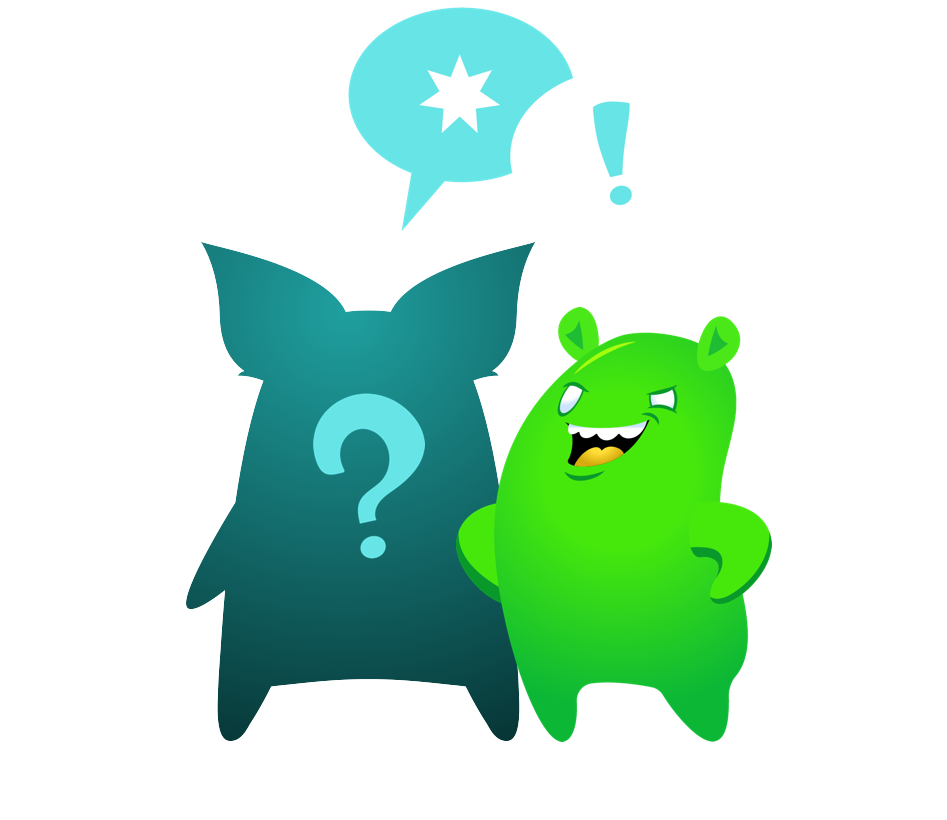
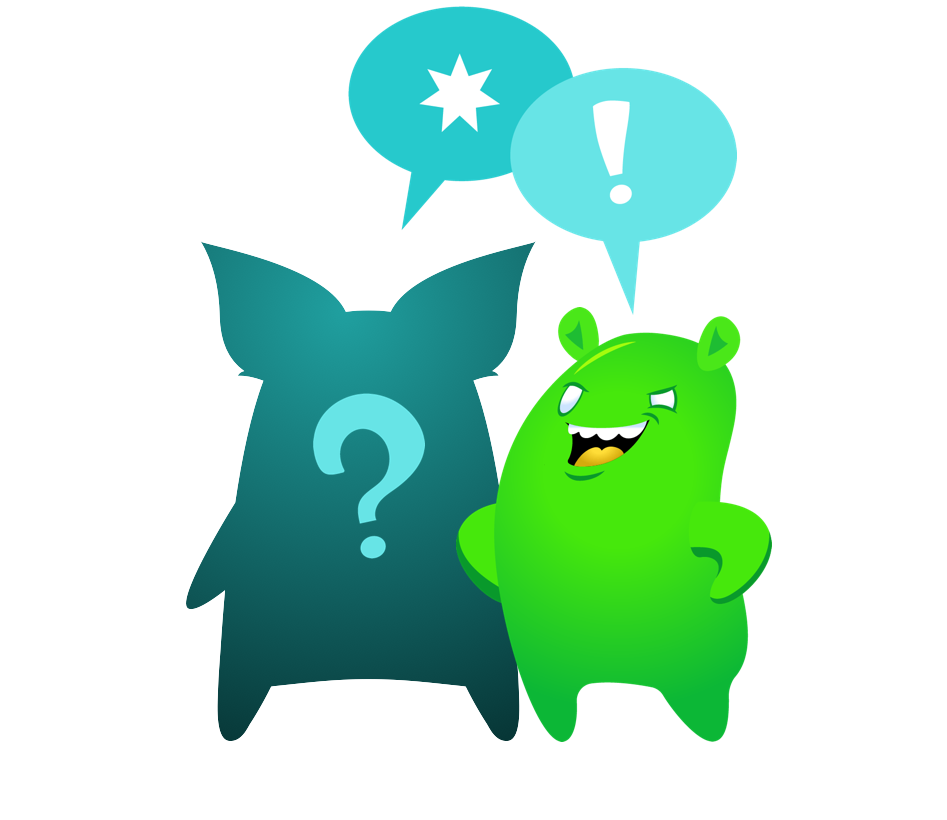
Updated to new style and added way to play videos from Vimo

Changed region(s): [[0.3675, 0.0, 0.7962, 0.3659]]

diff --git a/Classes/OnlineSafetyDetailsLayer.cpp b/Classes/OnlineSafetyDetailsLayer.cpp
@@ -3,6 +3,7 @@
 #include <AzoomeeCommon/Strings.h>
 #include <AzoomeeCommon/Analytics/AnalyticsSingleton.h>
 #include <AzoomeeCommon/Audio/AudioMixer.h>
+#include "ui/UIWebView.h"
 
 NS_AZOOMEE_BEGIN
 
@@ -33,19 +34,24 @@ bool OnlineSafetyDetailsLayer::init()
     return true;
 }
 
+void OnlineSafetyDetailsLayer::addListenerToVideoLayer(Layer* listenerToLayer)
+{
+    auto listener = EventListenerTouchOneByOne::create();
+    listener->setSwallowTouches(true);
+    listener->onTouchBegan = [=](Touch *touch, Event *event)
+    {
+        return true;
+    };
+    
+    Director::getInstance()->getEventDispatcher()->addEventListenerWithSceneGraphPriority(listener->clone(), listenerToLayer);
+}
+
 //----------------Add UI Objects-------------
 
 void OnlineSafetyDetailsLayer::createBackground()
 {
-    backgroundLayer = LayerColor::create(Color4B(216,216,216,255),visibleSize.width, layerHeight);
+    backgroundLayer = LayerColor::create(Color4B(255,255,255,255),visibleSize.width, layerHeight);
     this->addChild(backgroundLayer);
-    
-    /*Sprite* topGradient = Sprite::create("res/onlineSafetySlides/topGradient.png");
-    topGradient->setAnchorPoint(Vec2(0, 1.0));
-    topGradient->setScaleX(visibleSize.width / topGradient->getContentSize().width);
-    topGradient->setPosition(0,backgroundLayer->getContentSize().height);
-    //topGradient->setColor(Color3B::BLACK);
-    backgroundLayer->addChild(topGradient);*/
 }
 
 void OnlineSafetyDetailsLayer::addUIObjects()
@@ -83,6 +89,7 @@ void OnlineSafetyDetailsLayer::addUIObjects()
     
     watchSearchItUpButton = ElectricDreamsButton::createTextAsButtonWithColor("Watch Search It Up", 59, true, Color3B(9,154,154));
     watchSearchItUpButton->setCenterPosition(Vec2(mainImage->getPositionX(),mainImage->getPositionY()-mainImage->getContentSize().height/2-watchSearchItUpButton->getContentSize().height*2));
+    watchSearchItUpButton->setDelegate(this);
     backgroundLayer->addChild(watchSearchItUpButton);
 }
 
@@ -112,7 +119,24 @@ void OnlineSafetyDetailsLayer::buttonPressed(ElectricDreamsButton* button)
 {
     if(button == watchSearchItUpButton)
     {
+        videoLayer = LayerColor::create(Color4B(255,255,255,255),visibleSize.width, visibleSize.height);
+        this->addChild(videoLayer);
+        
+        addListenerToVideoLayer(videoLayer);
+        
+        closeVideoButton = ElectricDreamsButton::createWindowCloselButton();
+        closeVideoButton->setCenterPosition(Vec2(visibleSize.width - closeVideoButton->getContentSize().width, visibleSize.height - closeVideoButton->getContentSize().height));
+        closeVideoButton->setDelegate(this);
+        videoLayer->addChild(closeVideoButton);
+        
+        auto newHTML = "<iframe src=\"https://player.vimeo.com/video/180891858?autoplay=1&color=ffffff&title=0&byline=0&portrait=0\" width=\"320\" height=\"180\" frameborder=\"0\"></iframe>";
 
+        auto view = experimental::ui::WebView::create();
+        view->setContentSize(Size(1600,900));
+        view->setAnchorPoint(Vec2::ANCHOR_MIDDLE);
+        view->setPosition(Vec2(visibleSize.width/2,visibleSize.height/2));
+        view->loadHTMLString(newHTML);
+        videoLayer->addChild(view);
     }
     else if(button == chevronLeftButton)
     {
@@ -121,6 +145,10 @@ void OnlineSafetyDetailsLayer::buttonPressed(ElectricDreamsButton* button)
     else if(button == chevronRightButton)
     {
         moveSlideNumberBy(1);
+    }
+    else if(button == closeVideoButton)
+    {
+        videoLayer->removeFromParent();
     }
 }
 

diff --git a/Classes/OnlineSafetyDetailsLayer.h b/Classes/OnlineSafetyDetailsLayer.h
@@ -19,6 +19,7 @@ private:
     int currentSlideNumber;
     
     LayerColor* backgroundLayer;
+    LayerColor* videoLayer;
     
     Label* titleLabel;
     Label* slideTitleLabel;
@@ -27,6 +28,7 @@ private:
     ElectricDreamsButton *watchSearchItUpButton;
     ElectricDreamsButton *chevronLeftButton;
     ElectricDreamsButton *chevronRightButton;
+    ElectricDreamsButton *closeVideoButton;
     
     Sprite* mainImage;
     Sprite* leftButton;
@@ -36,6 +38,8 @@ private:
     void addUIObjects();
     void setToCurrentSlideNumber();
     void moveSlideNumberBy(int moveBy);
+    
+    void addListenerToVideoLayer(Layer* listenerToLayer);
     
 public:
     static Layer* createWithHeight(float setLayerHeight);
